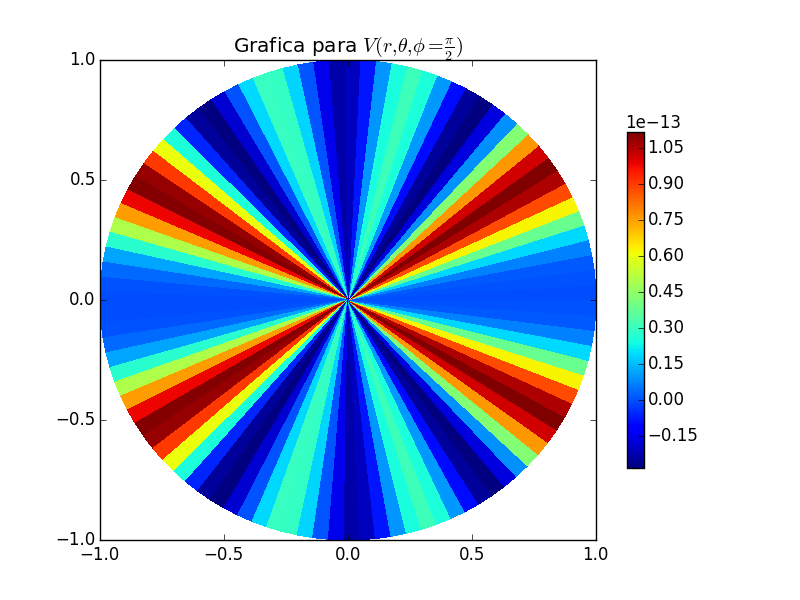
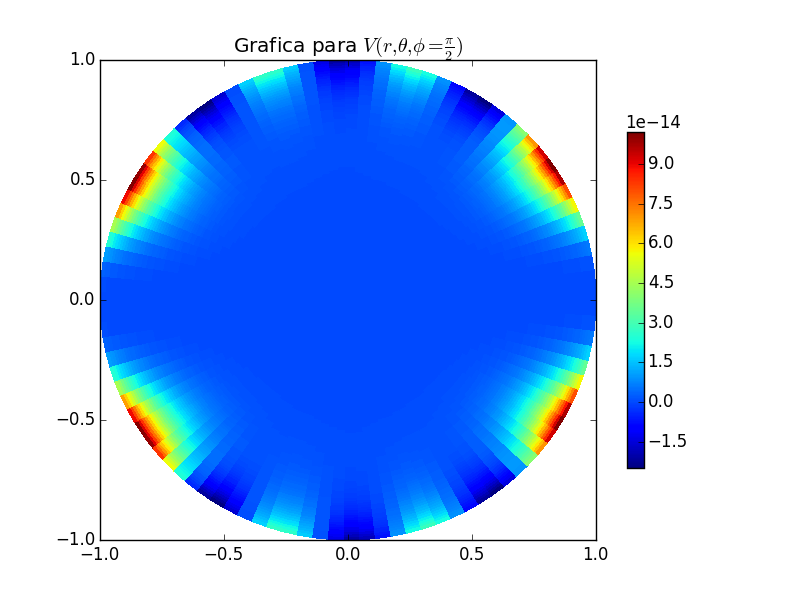
ya hay grafica

diff --git a/tarea_examen.py b/tarea_examen.py
@@ -36,7 +36,7 @@ def V (r, th, phi, M=10):
                 lista.append(m)
 
         for m_valida in lista:
-            V =  V + Alm (l, m_valida)*Ylm(l, m_valida, th, phi)
+            V =  V + Alm (l, m_valida)*Ylm(l, m_valida, th, phi)*(r**l)
     return V
         
 pasos = 100
